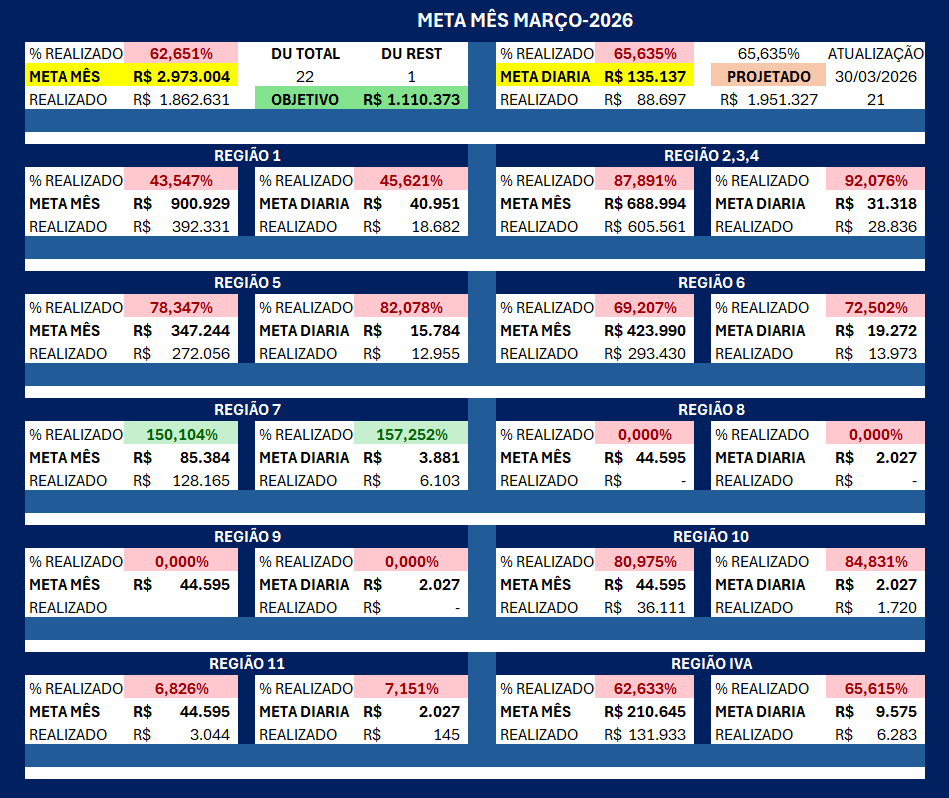
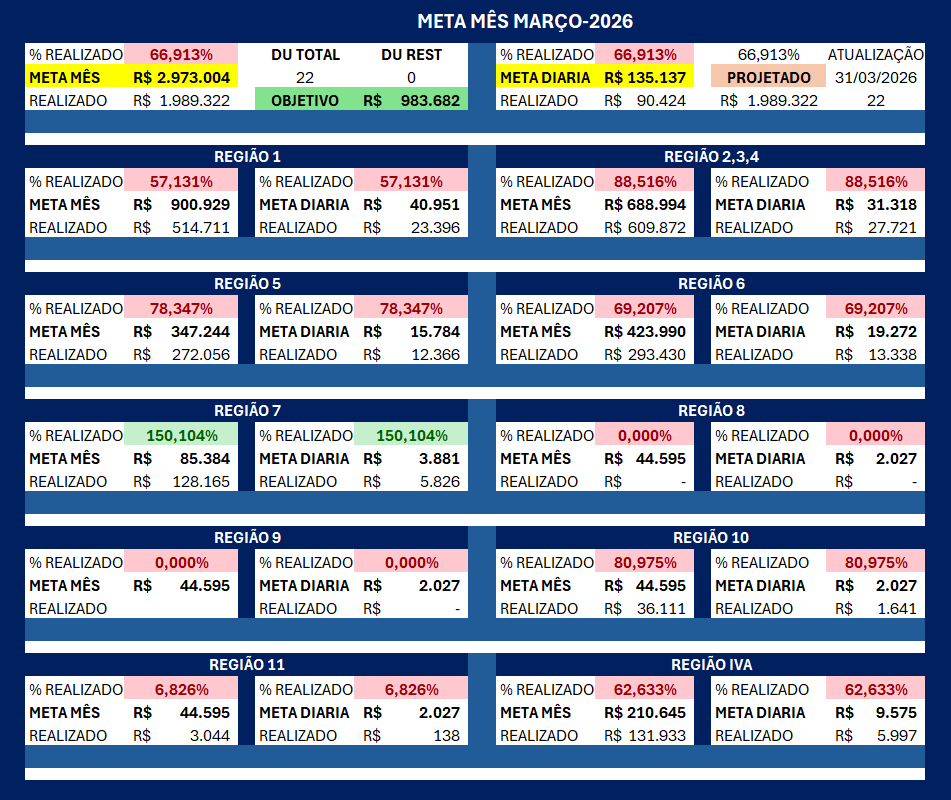
Atualização de Imagem

diff --git a/index.html b/index.html
@@ -31,7 +31,7 @@ html, body {
 
 <script>
 const imagens = [
-  "https://i.postimg.cc/44zp2J6Y/painel.png",
+  "https://i.postimg.cc/wjFpZRQx/painel.png",
   "https://i.postimg.cc/bNprSyCX/Image-(1).jpg",
   "https://i.postimg.cc/qMS1YvN1/1.jpg",
   "https://i.postimg.cc/J79TYhHC/2.jpg",
